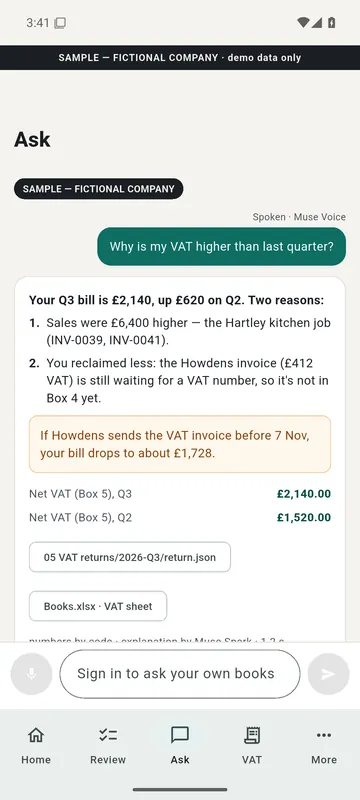
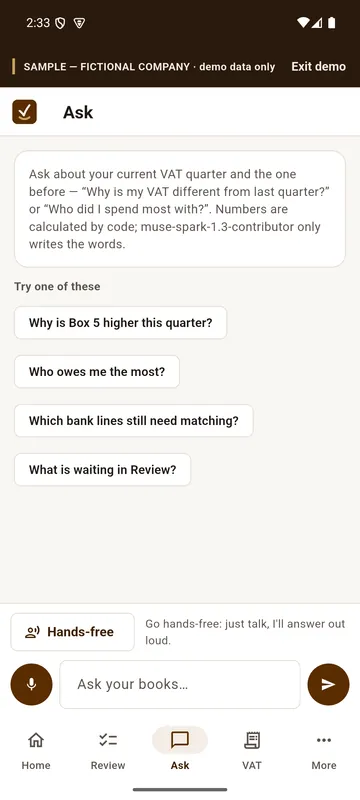
Landing: Android shots regenerated from the brown emulator screens; alt text and captions match them
Claude-Session: https://claude.ai/code/session_01HDbAb5qAD2ukYVcgsejwnd

diff --git a/apps/web/src/components/marketing/Landing.tsx b/apps/web/src/components/marketing/Landing.tsx
@@ -645,7 +645,7 @@ function Android() {
                 src="/shots/android-review.webp"
                 width={360}
                 height={800}
-                alt="Android app, Review: a Screwfix receipt, £38.47, matching an Autopilot rule, with the VAT to reclaim and the reason."
+                alt="Android app, Review 1 of 6: Fictional Plastics Ltd, £126.00, 97 % sure, read by Muse Spark, with the net, the VAT to reclaim, the supplier VAT number and Approve, Edit and Reject."
               />
             </PhoneFrame>
             <PhoneFrame className="w-[46%] max-w-[210px]">
@@ -653,12 +653,12 @@ function Android() {
                 src="/shots/android-ask.webp"
                 width={360}
                 height={800}
-                alt="Android app, Ask: a sample answer to “Why is my VAT higher than last quarter?” with the figures and the files used."
+                alt="Android app, Ask: suggested questions such as “Why is Box 5 higher this quarter?”, with the mic, hands-free and a box to type."
               />
             </PhoneFrame>
           </div>
           <figcaption className="mt-10 text-center text-[13px] text-muted">
-            The Android app on an emulator, signed out, showing its labelled sample data.
+            The Android app on an emulator, in the company demo with its labelled sample data.
           </figcaption>
         </figure>
       </div>

diff --git a/apps/web/scripts/marketing-images.py b/apps/web/scripts/marketing-images.py
@@ -1,7 +1,7 @@
 """Make the website's screenshots (apps/web/public/shots/*.webp) from the real ones in the repo.
 
 Sources: docs/submission/shots/ (the web app in test mode with the fictional sample books, taken by e2e/demo.spec.ts and
-e2e/shots.spec.ts), apps/mobile/screenshots/ (the Android app on an emulator, signed out, sample data) and
+e2e/shots.spec.ts), apps/mobile/screenshots/ (the Android app on an emulator, company demo, labelled sample data) and
 apps/web/public/sample-receipt.png. Every output is a crop or resize of one of those: nothing is drawn or edited.
 Run from the repo root: `python apps/web/scripts/marketing-images.py` (needs Pillow with WebP).
 """
@@ -39,7 +39,7 @@ JOBS: dict[str, tuple[Path, tuple[int, int, int, int] | None, int]] = {
     "feat-your-data": (SHOTS / "settings-your-data.png", (352, 40, 1160, 750), 808),
     "feat-ask": (SHOTS / "10-ask.png", (248, 96, 1264, 800), 808),
     "feat-action": (SHOTS / "11-invoice-card.png", (248, 100, 1264, 603), 808),
-    # Android (emulator, signed out, labelled sample data).
+    # Android (emulator, company demo, labelled sample data).
     "android-review": (MOBILE / "review.png", None, 360),
     "android-ask": (MOBILE / "ask.png", None, 360),
 }
